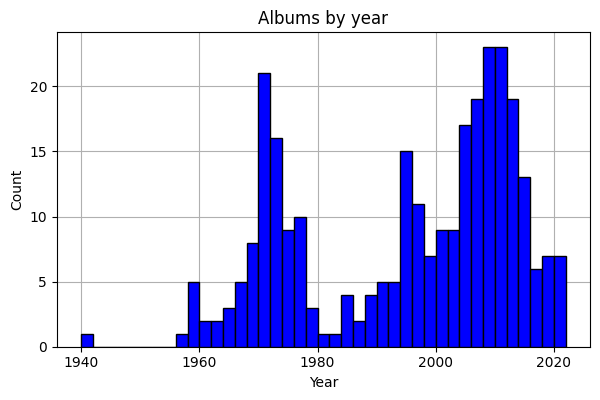
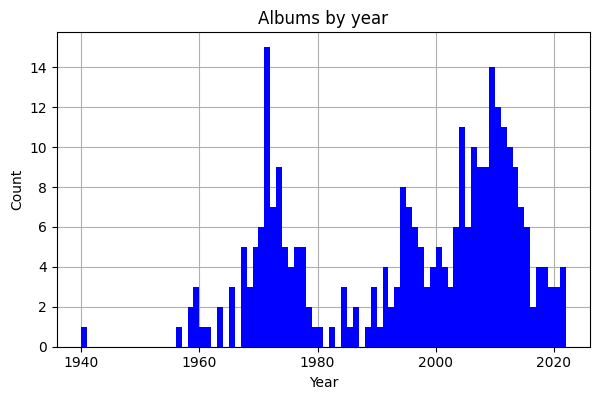
Remove unnecessary `np` import

diff --git a/make.py b/make.py
@@ -1,6 +1,5 @@
 import os
 from jutility import util, plotting
-import numpy as np
 
 CURRENT_DIR = os.path.dirname(os.path.abspath(__file__))
 PLAYLIST_DIR = os.path.join(CURRENT_DIR, "playlists")
@@ -74,9 +73,9 @@ def make_all_album_list(album_list: "list[Album]"):
 
 def make_histogram(album_list: "list[Album]"):
     years  = [album.get_year() for album in album_list]
-    x = np.arange(2 * (min(years) // 2), max(years) + 2, 2)
+    x = list(range(min(years), max(years) + 1))
     plotting.plot(
-        plotting.Hist(years, x),
+        plotting.Hist(years, x, ec=None),
         xlabel="Year",
         ylabel="Count",
         figsize=[6, 4],
